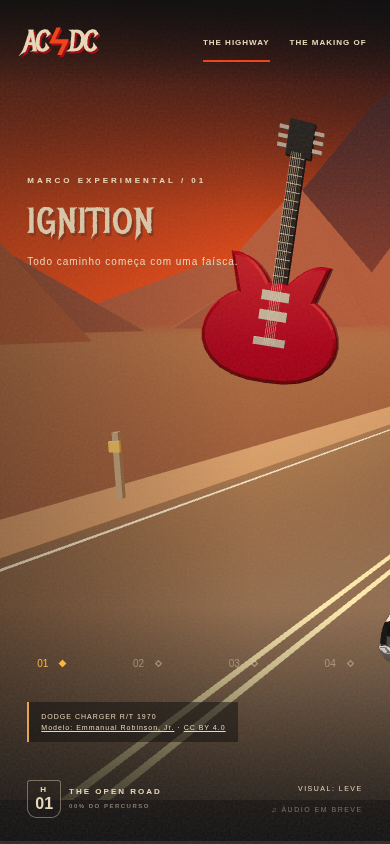
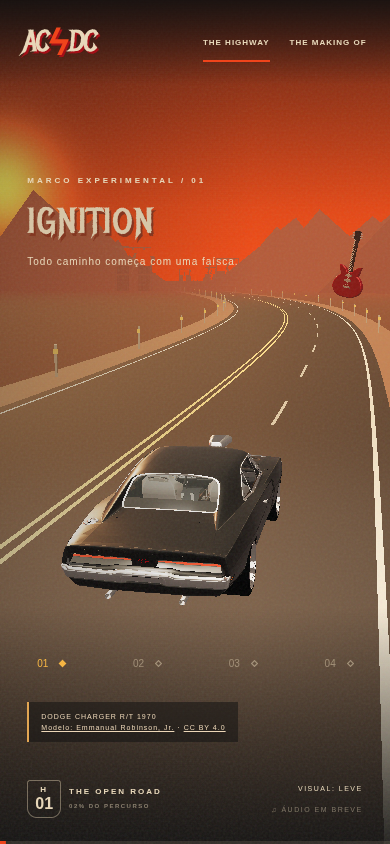
fix: keep Charger framed on narrow viewports

diff --git a/src/scenes/HighwayScene.jsx b/src/scenes/HighwayScene.jsx
@@ -8,6 +8,7 @@ import Scenery from '../components/roadside/Scenery';
 import Charger from '../components/car/Charger';
 import { carAsset } from '../data/assets';
 import { JOURNEY_LENGTH, roadX } from '../data/journey';
+const cameraConfig = { position: [2.5, 4.1, 11], fov: 55, near: .1, far: 1000 };
 class ModelBoundary extends Component {
   state = { error: false };
   static getDerivedStateFromError() { return { error: true }; }
@@ -21,7 +22,8 @@ export class SceneBoundary extends Component {
 }
 function JourneyRig({ progress, targetProgress, reduced, onModelError, onModelReady, quality }) {
   const invalidate = useThree(state => state.invalidate);
-  useEffect(() => { invalidate(); }, [targetProgress, reduced, quality, invalidate]);
+  const width = useThree(state => state.size.width);
+  useEffect(() => { invalidate(); }, [targetProgress, reduced, quality, width, invalidate]);
   const distance = useRef(0), car = useRef(), fill = useRef();
   const look = useRef(new Vector3()), position = useRef(new Vector3());
   useFrame(({ camera }, dt) => {
@@ -31,8 +33,11 @@ function JourneyRig({ progress, targetProgress, reduced, onModelError, onModelRe
     const s = distance.current;
     const sweep = reduced ? 0 : Math.sin(s / 80) * 2.4;
     position.current.set(roadX(s - 8) + 4.2 + sweep, 3.3 + Math.sin(s / 120) * .35, -s + 8.5);
+    if (width < 761) position.current.set(roadX(s) + 2.5, 3.6, -s + 10.5);
     camera.position.copy(position.current);
-    look.current.set(roadX(s + 10) + 2.5, 1.2, -s - 10); camera.lookAt(look.current);
+    look.current.set(roadX(s + 10) + 2.5, 1.2, -s - 10);
+    if (width < 761) look.current.set(roadX(s) + 2.5, 1.2, -s - 3);
+    camera.lookAt(look.current);
     car.current.position.set(roadX(s) + 2.5, .025, -s);
     car.current.rotation.y = -Math.atan((roadX(s + .1) - roadX(s - .1)) / .2);
     fill.current.position.set(roadX(s) + 1, 7, -s + 2);
@@ -44,7 +49,7 @@ function JourneyRig({ progress, targetProgress, reduced, onModelError, onModelRe
   </>;
 }
 export default function HighwayScene({ progress, targetProgress, reduced, quality, onModelError, onModelReady }) {
-  return <SceneBoundary><Canvas frameloop="demand" shadows={quality === 'high'} dpr={quality === 'high' ? [1, 1.5] : 1} camera={{ position: [2.5, 4.1, 11], fov: 55, near: .1, far: 1000 }} gl={{ antialias: quality === 'high', powerPreference: 'high-performance' }} fallback={<div className="scene-fallback">WebGL indisponível. The Making Of continua acessível.</div>}>
+  return <SceneBoundary><Canvas frameloop="demand" shadows={quality === 'high'} dpr={quality === 'high' ? [1, 1.5] : 1} camera={cameraConfig} gl={{ antialias: quality === 'high', powerPreference: 'high-performance' }} fallback={<div className="scene-fallback">WebGL indisponível. The Making Of continua acessível.</div>}>
     <Atmosphere /><Road /><Scenery />
     <Environment resolution={64}><color attach="background" args={['#625853']} /><Lightformer intensity={2.5} color="#f6e6d4" scale={[18, 9, 1]} position={[2, 5, 12]} rotation={[0, Math.PI, 0]} /><Lightformer form="rect" intensity={3} color="#ffe4bf" scale={[15, 6, 1]} position={[0, 8, 0]} rotation={[Math.PI / 2, 0, 0]} /><Lightformer intensity={2} color="#ff592d" scale={[20, 4, 1]} position={[-10, 3, -8]} rotation={[0, Math.PI / 2, 0]} /></Environment>
     <JourneyRig progress={progress} targetProgress={targetProgress} reduced={reduced} quality={quality} onModelError={onModelError} onModelReady={onModelReady} />

diff --git a/docs/validation.md b/docs/validation.md
@@ -41,3 +41,5 @@ O Challenger não foi recebido; carregamento, escala, orientação, materiais, r
 - Novas capturas: `charger-opening.png`, `charger-rear.png`, `charger-mobile.png`.
 
 Limites: as rodas não giram, pois as peças vêm agrupadas por material. Não foi testado desempenho em celular físico nem medido FPS em GPU real. O GLB original tem 11,27 MB; o bundle 3D passou a aproximadamente 351 KB gzip com GLTFLoader. Os ajustes de material vermelho são compartilhados por detalhes do modelo, não exclusivamente pelas lanternas. A compressão e a separação das rodas devem ser feitas em uma cópia de trabalho. Não houve publicação remota.
+
+A inspeção da primeira captura mobile revelou corte lateral do veículo após redimensionar. Corrigido com enquadramento centralizado abaixo de 761 px, invalidação da cena ao mudar largura e configuração inicial estável da câmera. Novo build aprovado e nova captura mobile inspecionada: carro inteiro no quadro, sem exceções JavaScript. A captura `charger-mobile.png` foi substituída pela versão corrigida.
